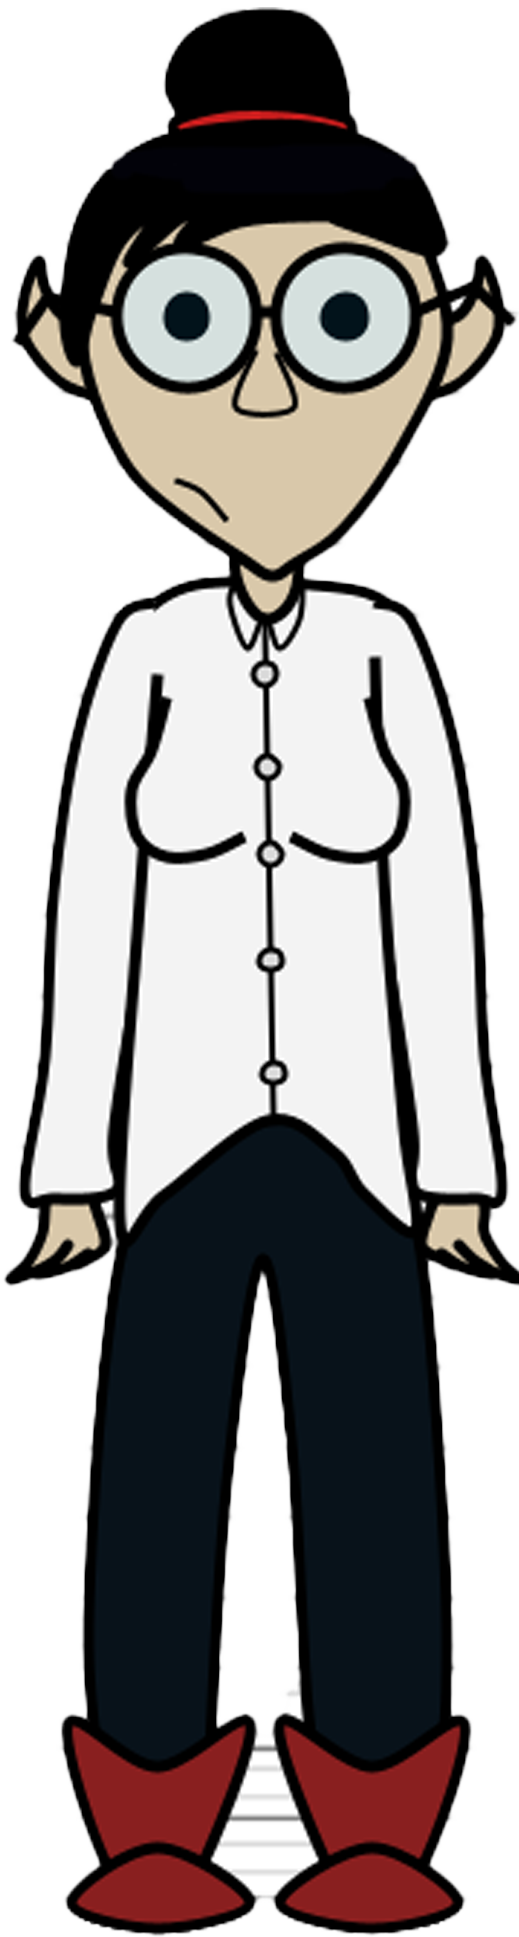
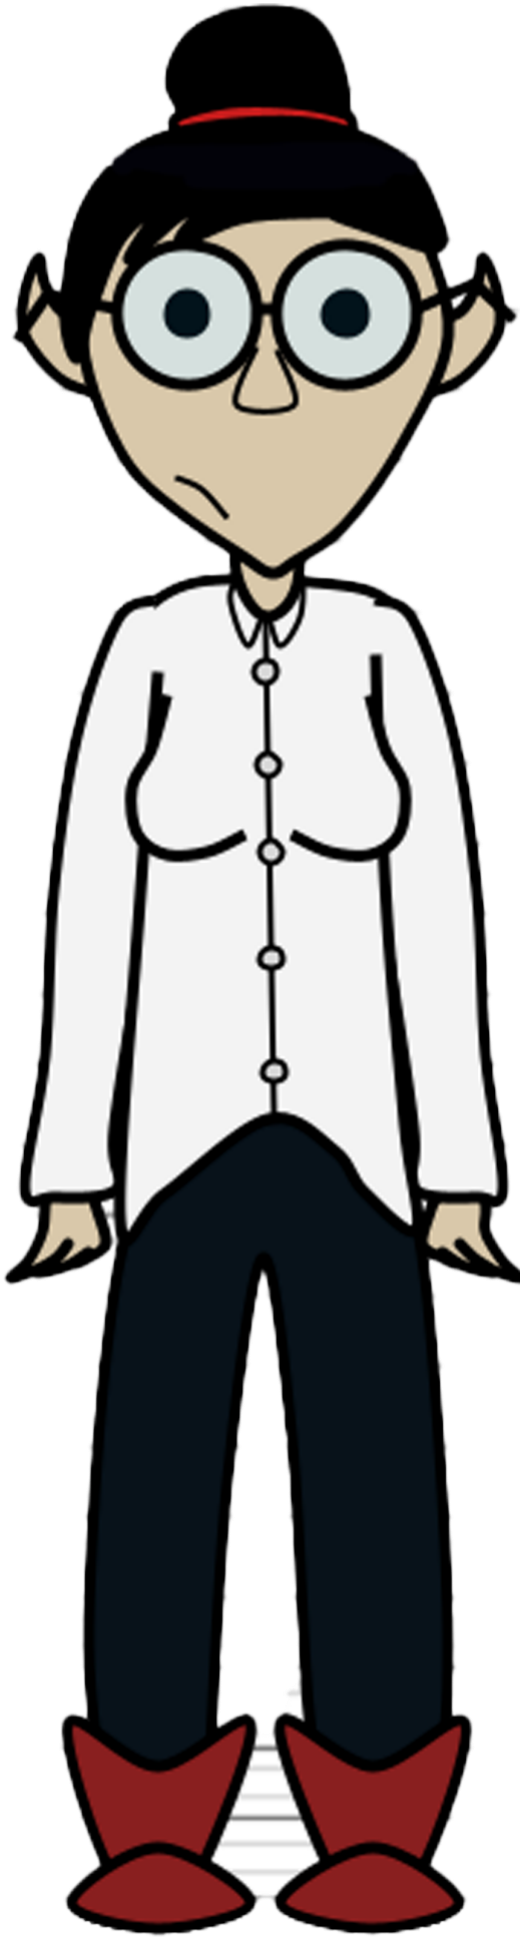
feat: animations use a fixed distance

diff --git a/src/pages/screen.character.js b/src/pages/screen.character.js
@@ -10,6 +10,7 @@ export default class ScreenCharacterInfo {
   constructor() {
     this.main = document.querySelector(`[data-page="container"]`);
     this.template = document.querySelector("#screen-character-info");
+    this.step = 75;
   }
 
   init(handler = null) {
@@ -80,23 +81,25 @@ export default class ScreenCharacterInfo {
       next: () => [
         moveAnimation(
           offscreenPreviewLeft,
-          previousPreview,
           "offscreenToPreview",
+          "next",
+          this.step,
         ),
-        moveAnimation(previousPreview, currentPreview, "previewToCurrent"),
-        moveAnimation(currentPreview, nextPreview, "currentToPreview"),
-        moveAnimation(nextPreview, offscreenPreviewRight, "previewToOffscreen"),
+        moveAnimation(previousPreview, "previewToCurrent", "next", this.step),
+        moveAnimation(currentPreview, "currentToPreview", "next", this.step),
+        moveAnimation(nextPreview, "previewToOffscreen", "next", this.step),
       ],
 
       prev: () => [
+        moveAnimation(previousPreview, "previewToOffscreen", "prev", this.step),
+        moveAnimation(currentPreview, "currentToPreview", "prev", this.step),
+        moveAnimation(nextPreview, "previewToCurrent", "prev", this.step),
         moveAnimation(
-          previousPreview,
-          offscreenPreviewLeft,
-          "previewToOffscreen",
+          offscreenPreviewRight,
+          "offscreenToPreview",
+          "prev",
+          this.step,
         ),
-        moveAnimation(currentPreview, previousPreview, "currentToPreview"),
-        moveAnimation(nextPreview, currentPreview, "previewToCurrent"),
-        moveAnimation(offscreenPreviewRight, nextPreview, "offscreenToPreview"),
       ],
     };
 
@@ -136,14 +139,9 @@ function getPreviewState(index, direction, previews) {
   };
 }
 
-function moveAnimation(fromEl, toEl, type) {
-  const fromRect = fromEl.getBoundingClientRect();
-  const toRect = toEl.getBoundingClientRect();
-
-  const dx = toRect.left - fromRect.left;
-  const dy = toRect.top - fromRect.top;
-
-  return mappedAnimation(fromEl, dx, dy, type);
+function moveAnimation(fromEl, type, direction, step) {
+  const dx = direction === "prev" ? -step : step;
+  return mappedAnimation(fromEl, dx, type);
 }
 
 const animationMap = {
@@ -153,84 +151,80 @@ const animationMap = {
   previewToOffscreen,
 };
 
-function mappedAnimation(e, dx, dy, type, duration = 500) {
+function mappedAnimation(e, dx, type, duration = 500) {
   if (!animationMap[type]) return;
 
-  return animationMap[type](e, dx, dy, duration);
+  return animationMap[type](e, dx, duration);
 }
 
-function offscreenToPreview(e, dx, dy, duration) {
+function offscreenToPreview(e, dx, duration) {
   return e.animate(
     [
       {
-        transform: "translate(0px, 0px) scale(0)",
+        transform: "translateX(0px) scale(0)",
         opacity: 0,
       },
       {
-        transform: `translate(${dx}px, ${dy}px) scale(0.5)`,
+        transform: `translateX(${dx}px) scale(0.5)`,
         opacity: 0.8,
       },
     ],
     {
       duration,
-      fill: "forwards",
     },
   );
 }
 
-function previewToCurrent(e, dx, dy, duration) {
+function previewToCurrent(e, dx, duration) {
   return e.animate(
     [
       {
-        transform: "translate(0px, 0px) scale(0.5)",
+        transform: "translateX(0px) scale(0.5)",
         opacity: 0.8,
       },
       {
-        transform: `translate(${dx}px, ${dy}px) scale(1)`,
+        transform: `translateX(${dx}px) scale(1)`,
         opacity: 1,
       },
     ],
     {
       duration,
-      fill: "forwards",
     },
   );
 }
 
-function currentToPreview(e, dx, dy, duration) {
+function currentToPreview(e, dx, duration) {
   return e.animate(
     [
       {
-        transform: "translate(0px, 0px) scale(1)",
+        transform: "translateX(0px) scale(1)",
         opacity: 1,
       },
       {
-        transform: `translate(${dx}px, ${dy}px) scale(0.5)`,
+        transform: `translateX(${dx}px) scale(0.5)`,
         opacity: 0.8,
       },
     ],
     {
       duration,
-      fill: "forwards",
     },
   );
 }
 
-function previewToOffscreen(e, dx, dy, duration) {
+function previewToOffscreen(e, dx, duration) {
   return e.animate(
     [
       {
-        transform: "translate(0px, 0px) scale(0.5)",
+        transform: "translateX(0px) scale(0.5)",
         opacity: 0.8,
       },
       {
-        transform: `translate(${dx}px, ${dy}px) scale(0)`,
+        transform: `translateX(${dx}px) scale(0)`,
         opacity: 0,
       },
     ],
     {
       duration,
-      fill: "forwards",
     },
   );
 }

diff --git a/src/styles/styles.css b/src/styles/styles.css
@@ -442,6 +442,9 @@ body {
   align-items: center;
   justify-content: flex-end;
 }
+.button--navigation {
+  aspect-ratio: 1/1;
+}
 .button--navigation--left {
   justify-self: flex-start;
   margin-inline-end: auto;
@@ -1249,7 +1252,8 @@ body {
   position: relative;
 }
 .character--offscreen {
-  transform: scale(0.3);
+  transform: scale(0);
+  opacity: 0;
   position: absolute;
 }
 .character--offscreen--right {

diff --git a/src/styles/styles.scss b/src/styles/styles.scss
@@ -39,7 +39,8 @@ body {
   }
 
   &--offscreen {
-    transform: scale(0.3);
+    transform: scale(0);
+    opacity: 0;
     position: absolute;
 
     &--right {

diff --git a/eslint.config.js b/eslint.config.js
@@ -18,6 +18,8 @@ export default defineConfig([
         crypto: "readonly",
         document: "readonly",
         requestAnimationFrame: "readonly",
+        ResizeObserver: "readonly",
+        getComputedStyle: "readonly",
       },
     },
   },

diff --git a/src/styles/components/_button.scss b/src/styles/components/_button.scss
@@ -58,6 +58,8 @@
   }
 
   &--navigation {
+    aspect-ratio: 1 / 1;
+
     &--left {
       justify-self: flex-start;
       margin-inline-end: auto;